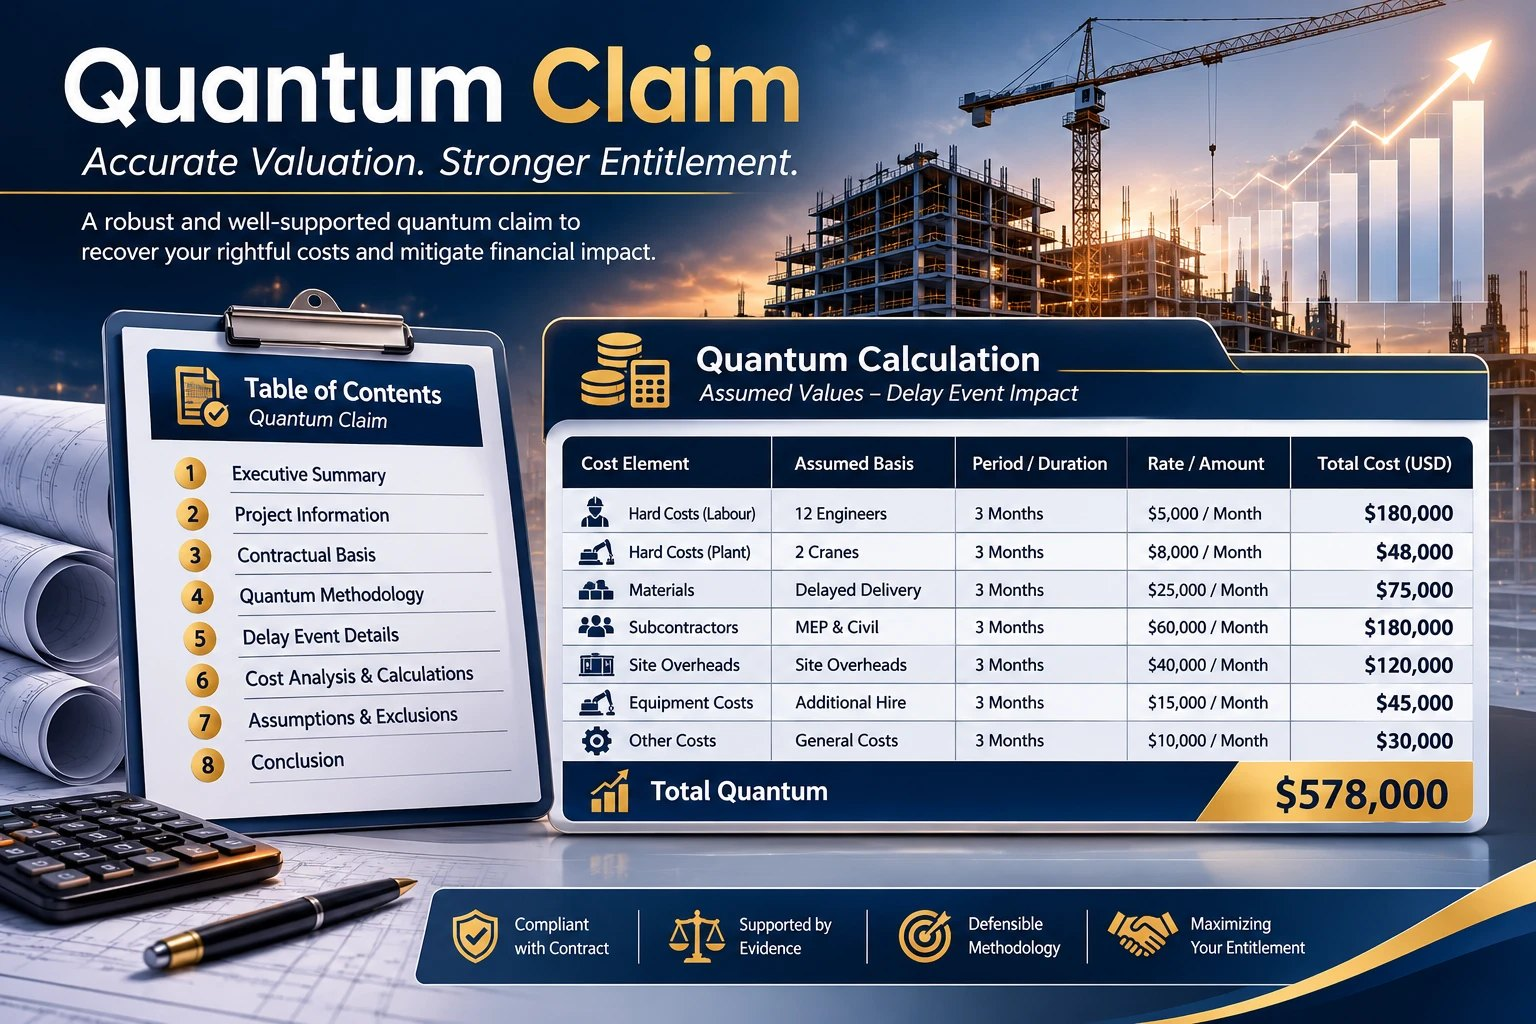
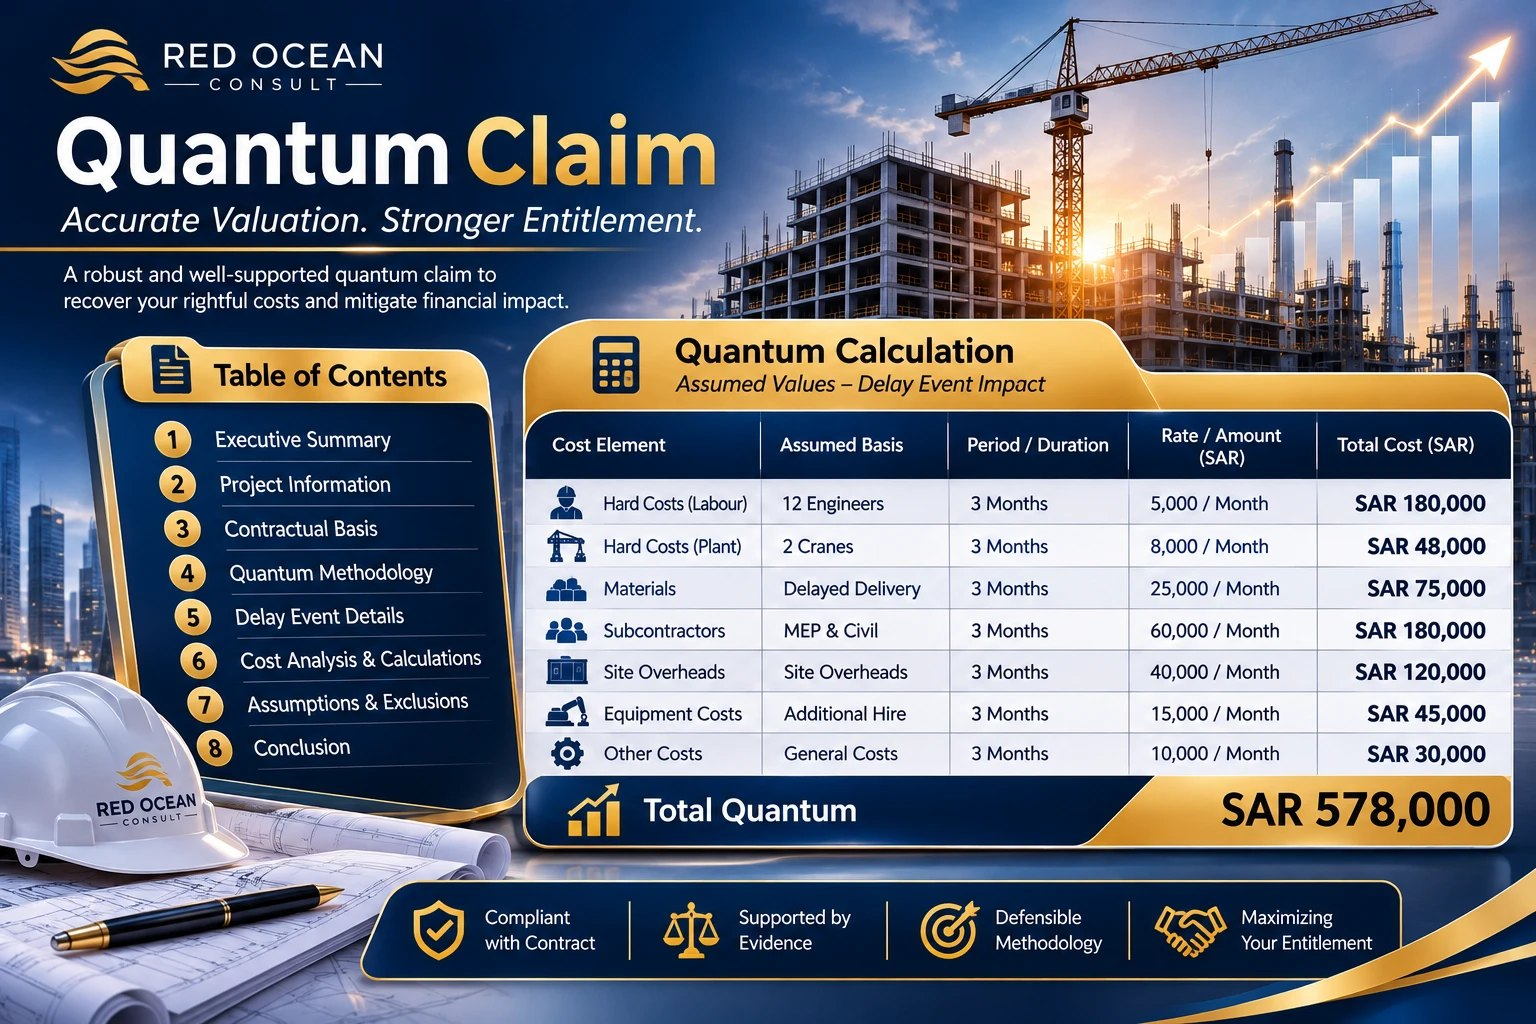
Use SAR quantum infographic; remove crane photo from the site
Claude-Session: https://claude.ai/code/session_01VANZ86eDsDDMpjn1dvLxtn

diff --git a/index.html b/index.html
@@ -63,7 +63,7 @@
   <div class="hero-wall" aria-hidden="true">
     <div class="wall-col"><div class="wall-track"><img src="assets/img/project-kafd-2-14-sm.jpg" srcset="assets/img/project-kafd-2-14-sm.jpg 800w, assets/img/project-kafd-2-14.jpg 1600w" sizes="(max-width: 680px) 100vw, 600px" alt="" width="300" height="400"><img src="assets/img/project-amazon-riyadh-front-sm.jpg" srcset="assets/img/project-amazon-riyadh-front-sm.jpg 800w, assets/img/project-amazon-riyadh-front.jpg 1600w" sizes="(max-width: 680px) 100vw, 600px" alt="" width="300" height="400"><img src="assets/img/sector-commercial-sm.jpg" srcset="assets/img/sector-commercial-sm.jpg 800w, assets/img/sector-commercial.jpg 1600w" sizes="(max-width: 680px) 100vw, 600px" alt="" width="300" height="400"><img src="assets/img/project-kafd-residence-sm.jpg" srcset="assets/img/project-kafd-residence-sm.jpg 500w, assets/img/project-kafd-residence.jpg 1000w" sizes="(max-width: 680px) 100vw, 600px" alt="" width="300" height="400"><img src="assets/img/project-kafd-2-14-sm.jpg" srcset="assets/img/project-kafd-2-14-sm.jpg 800w, assets/img/project-kafd-2-14.jpg 1600w" sizes="(max-width: 680px) 100vw, 600px" alt="" width="300" height="400"><img src="assets/img/project-amazon-riyadh-front-sm.jpg" srcset="assets/img/project-amazon-riyadh-front-sm.jpg 800w, assets/img/project-amazon-riyadh-front.jpg 1600w" sizes="(max-width: 680px) 100vw, 600px" alt="" width="300" height="400"><img src="assets/img/sector-commercial-sm.jpg" srcset="assets/img/sector-commercial-sm.jpg 800w, assets/img/sector-commercial.jpg 1600w" sizes="(max-width: 680px) 100vw, 600px" alt="" width="300" height="400"><img src="assets/img/project-kafd-residence-sm.jpg" srcset="assets/img/project-kafd-residence-sm.jpg 500w, assets/img/project-kafd-residence.jpg 1000w" sizes="(max-width: 680px) 100vw, 600px" alt="" width="300" height="400"></div></div>
     <div class="wall-col"><div class="wall-track"><img src="assets/img/project-shamla-pharma-sm.jpg" srcset="assets/img/project-shamla-pharma-sm.jpg 800w, assets/img/project-shamla-pharma.jpg 1600w" sizes="(max-width: 680px) 100vw, 600px" alt="" width="300" height="400"><img src="assets/img/sector-infrastructure-sm.jpg" srcset="assets/img/sector-infrastructure-sm.jpg 800w, assets/img/sector-infrastructure.jpg 1600w" sizes="(max-width: 680px) 100vw, 600px" alt="" width="300" height="400"><img src="assets/img/project-diriyah-vip-sm.jpg" srcset="assets/img/project-diriyah-vip-sm.jpg 800w, assets/img/project-diriyah-vip.jpg 1600w" sizes="(max-width: 680px) 100vw, 600px" alt="" width="300" height="400"><img src="assets/img/project-events-investment-fund-sm.jpg" srcset="assets/img/project-events-investment-fund-sm.jpg 800w, assets/img/project-events-investment-fund.jpg 1600w" sizes="(max-width: 680px) 100vw, 600px" alt="" width="300" height="400"><img src="assets/img/project-shamla-pharma-sm.jpg" srcset="assets/img/project-shamla-pharma-sm.jpg 800w, assets/img/project-shamla-pharma.jpg 1600w" sizes="(max-width: 680px) 100vw, 600px" alt="" width="300" height="400"><img src="assets/img/sector-infrastructure-sm.jpg" srcset="assets/img/sector-infrastructure-sm.jpg 800w, assets/img/sector-infrastructure.jpg 1600w" sizes="(max-width: 680px) 100vw, 600px" alt="" width="300" height="400"><img src="assets/img/project-diriyah-vip-sm.jpg" srcset="assets/img/project-diriyah-vip-sm.jpg 800w, assets/img/project-diriyah-vip.jpg 1600w" sizes="(max-width: 680px) 100vw, 600px" alt="" width="300" height="400"><img src="assets/img/project-events-investment-fund-sm.jpg" srcset="assets/img/project-events-investment-fund-sm.jpg 800w, assets/img/project-events-investment-fund.jpg 1600w" sizes="(max-width: 680px) 100vw, 600px" alt="" width="300" height="400"></div></div>
-    <div class="wall-col"><div class="wall-track"><img src="assets/img/sector-industrial-sm.jpg" srcset="assets/img/sector-industrial-sm.jpg 800w, assets/img/sector-industrial.jpg 1600w" sizes="(max-width: 680px) 100vw, 600px" alt="" width="300" height="400"><img src="assets/img/project-bsf-takhasusi-sm.jpg" srcset="assets/img/project-bsf-takhasusi-sm.jpg 800w, assets/img/project-bsf-takhasusi.jpg 1600w" sizes="(max-width: 680px) 100vw, 600px" alt="" width="300" height="400"><img src="assets/img/sector-hospitality-sm.jpg" srcset="assets/img/sector-hospitality-sm.jpg 800w, assets/img/sector-hospitality.jpg 1600w" sizes="(max-width: 680px) 100vw, 600px" alt="" width="300" height="400"><img src="assets/img/quantum-sm.jpg" srcset="assets/img/quantum-sm.jpg 800w, assets/img/quantum.jpg 1600w" sizes="(max-width: 680px) 100vw, 600px" alt="" width="300" height="400"><img src="assets/img/sector-industrial-sm.jpg" srcset="assets/img/sector-industrial-sm.jpg 800w, assets/img/sector-industrial.jpg 1600w" sizes="(max-width: 680px) 100vw, 600px" alt="" width="300" height="400"><img src="assets/img/project-bsf-takhasusi-sm.jpg" srcset="assets/img/project-bsf-takhasusi-sm.jpg 800w, assets/img/project-bsf-takhasusi.jpg 1600w" sizes="(max-width: 680px) 100vw, 600px" alt="" width="300" height="400"><img src="assets/img/sector-hospitality-sm.jpg" srcset="assets/img/sector-hospitality-sm.jpg 800w, assets/img/sector-hospitality.jpg 1600w" sizes="(max-width: 680px) 100vw, 600px" alt="" width="300" height="400"><img src="assets/img/quantum-sm.jpg" srcset="assets/img/quantum-sm.jpg 800w, assets/img/quantum.jpg 1600w" sizes="(max-width: 680px) 100vw, 600px" alt="" width="300" height="400"></div></div>
+    <div class="wall-col"><div class="wall-track"><img src="assets/img/sector-industrial-sm.jpg" srcset="assets/img/sector-industrial-sm.jpg 800w, assets/img/sector-industrial.jpg 1600w" sizes="(max-width: 680px) 100vw, 600px" alt="" width="300" height="400"><img src="assets/img/project-bsf-takhasusi-sm.jpg" srcset="assets/img/project-bsf-takhasusi-sm.jpg 800w, assets/img/project-bsf-takhasusi.jpg 1600w" sizes="(max-width: 680px) 100vw, 600px" alt="" width="300" height="400"><img src="assets/img/sector-hospitality-sm.jpg" srcset="assets/img/sector-hospitality-sm.jpg 800w, assets/img/sector-hospitality.jpg 1600w" sizes="(max-width: 680px) 100vw, 600px" alt="" width="300" height="400"><img src="assets/img/story-engineers-sm.jpg" srcset="assets/img/story-engineers-sm.jpg 500w, assets/img/story-engineers.jpg 1000w" sizes="(max-width: 680px) 100vw, 600px" alt="" width="300" height="400"><img src="assets/img/sector-industrial-sm.jpg" srcset="assets/img/sector-industrial-sm.jpg 800w, assets/img/sector-industrial.jpg 1600w" sizes="(max-width: 680px) 100vw, 600px" alt="" width="300" height="400"><img src="assets/img/project-bsf-takhasusi-sm.jpg" srcset="assets/img/project-bsf-takhasusi-sm.jpg 800w, assets/img/project-bsf-takhasusi.jpg 1600w" sizes="(max-width: 680px) 100vw, 600px" alt="" width="300" height="400"><img src="assets/img/sector-hospitality-sm.jpg" srcset="assets/img/sector-hospitality-sm.jpg 800w, assets/img/sector-hospitality.jpg 1600w" sizes="(max-width: 680px) 100vw, 600px" alt="" width="300" height="400"><img src="assets/img/story-engineers-sm.jpg" srcset="assets/img/story-engineers-sm.jpg 500w, assets/img/story-engineers.jpg 1000w" sizes="(max-width: 680px) 100vw, 600px" alt="" width="300" height="400"></div></div>
   </div>
   <div class="wrap hero-grid">
     <div class="hero-copy">
